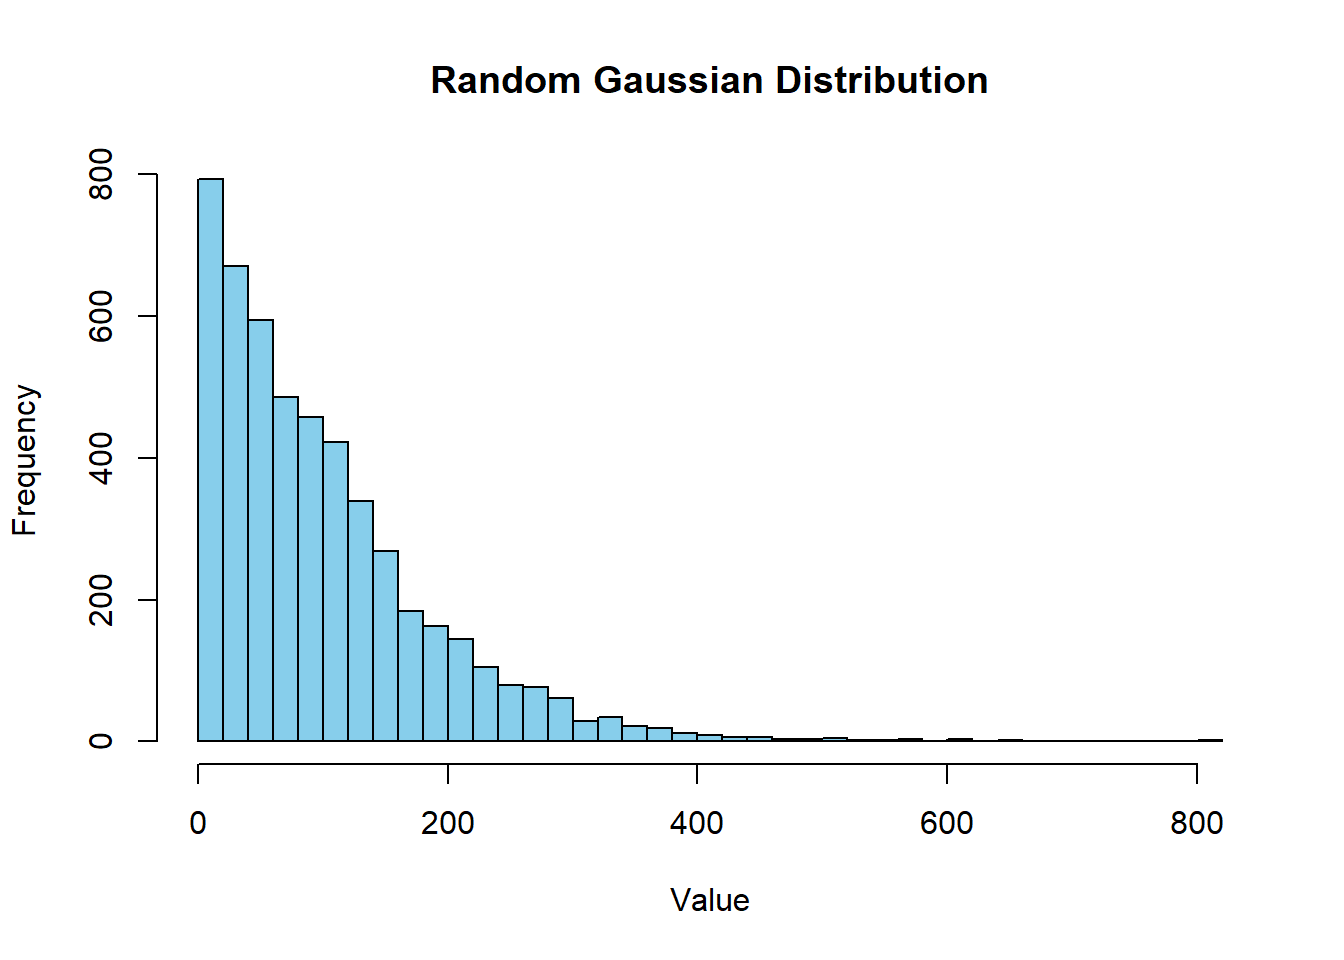
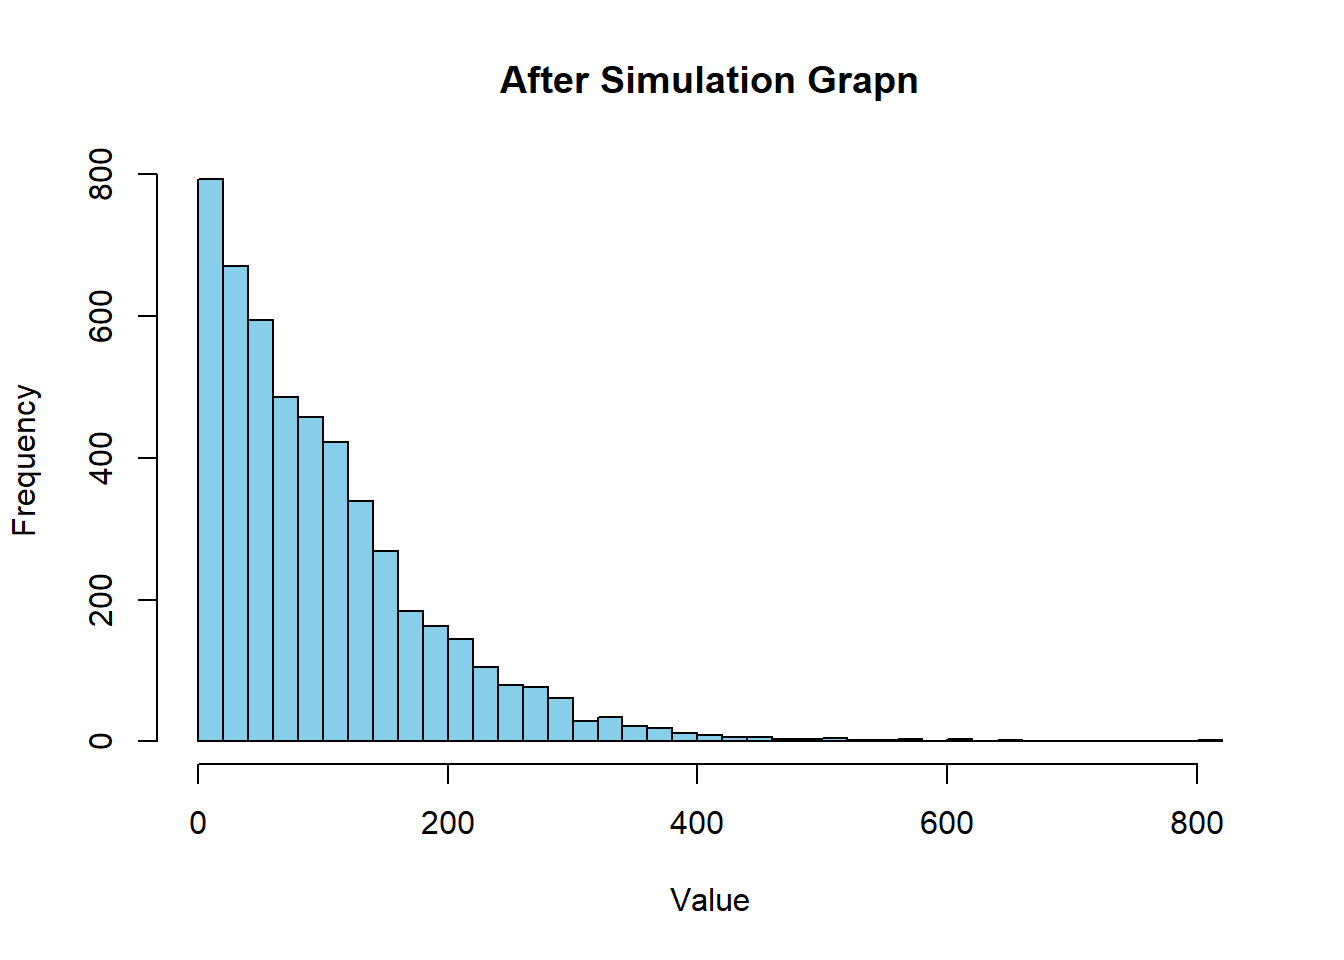
Another commit I dont know

Changed region(s): [[0.3125, 0.0625, 0.75, 0.125]]

diff --git a/docs/hw2/index.html b/docs/hw2/index.html
@@ -514,9 +514,6 @@ pre > code.sourceCode > span > a:first-child::before { text-decoration: underlin
 <span>      <span class="co">#making the new wealth distribution between those two</span></span>
 <span>      <span class="va">new_wealth</span> <span class="op">&lt;-</span> <span class="fu">random_split</span><span class="op">(</span><span class="va">person1</span>, <span class="va">person2</span><span class="op">)</span></span>
 <span>      <span class="co">#overwriting the old bank statement with the new one</span></span>
-<span>      <span class="co">#new_values &lt;- c(new_wealth)</span></span>
-<span>      <span class="co">#positions_to_change &lt;- c(person1, person2)</span></span>
-<span>      <span class="co">#round_population[positions_to_change] &lt;- new_values</span></span>
 <span>      <span class="va">round_population</span><span class="op">[</span><span class="va">selected_people</span><span class="op">[</span><span class="fl">1</span><span class="op">]</span><span class="op">]</span> <span class="op">&lt;-</span> <span class="va">new_wealth</span><span class="op">[</span><span class="fl">1</span><span class="op">]</span></span>
 <span>      <span class="va">round_population</span><span class="op">[</span><span class="va">selected_people</span><span class="op">[</span><span class="fl">2</span><span class="op">]</span><span class="op">]</span> <span class="op">&lt;-</span> <span class="va">new_wealth</span><span class="op">[</span><span class="fl">2</span><span class="op">]</span></span>
 <span>      </span>
@@ -528,7 +525,7 @@ pre > code.sourceCode > span > a:first-child::before { text-decoration: underlin
 <span></span>
 <span><span class="va">final_population</span> <span class="op">&lt;-</span> <span class="fu">simulation</span><span class="op">(</span><span class="va">round_population</span>, <span class="va">repetitions</span><span class="op">)</span></span>
 <span></span>
-<span><span class="fu"><a href="https://rdrr.io/r/graphics/hist.html">hist</a></span><span class="op">(</span><span class="va">final_population</span>, breaks <span class="op">=</span> <span class="fl">50</span>, main <span class="op">=</span> <span class="st">"Random Gaussian Distribution"</span>, xlab <span class="op">=</span> <span class="st">"Value"</span>, col <span class="op">=</span> <span class="st">"skyblue"</span><span class="op">)</span></span></code><button title="Copy to Clipboard" class="code-copy-button"><i class="bi"></i></button></pre></div>
+<span><span class="fu"><a href="https://rdrr.io/r/graphics/hist.html">hist</a></span><span class="op">(</span><span class="va">final_population</span>, breaks <span class="op">=</span> <span class="fl">50</span>, main <span class="op">=</span> <span class="st">"After Simulation Grapn"</span>, xlab <span class="op">=</span> <span class="st">"Value"</span>, col <span class="op">=</span> <span class="st">"skyblue"</span><span class="op">)</span></span></code><button title="Copy to Clipboard" class="code-copy-button"><i class="bi"></i></button></pre></div>
 </details><div class="cell-output-display">
 <div>
 <figure class="figure"><p><img src="index_files/figure-html/unnamed-chunk-18-1.png" class="img-fluid figure-img" width="672"></p>
